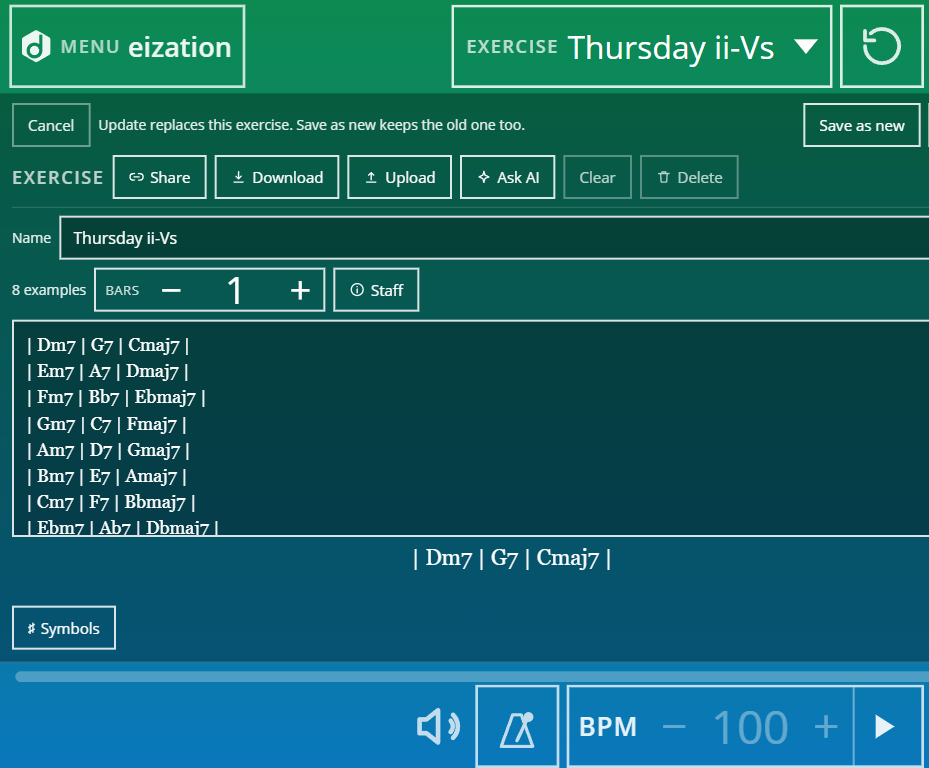
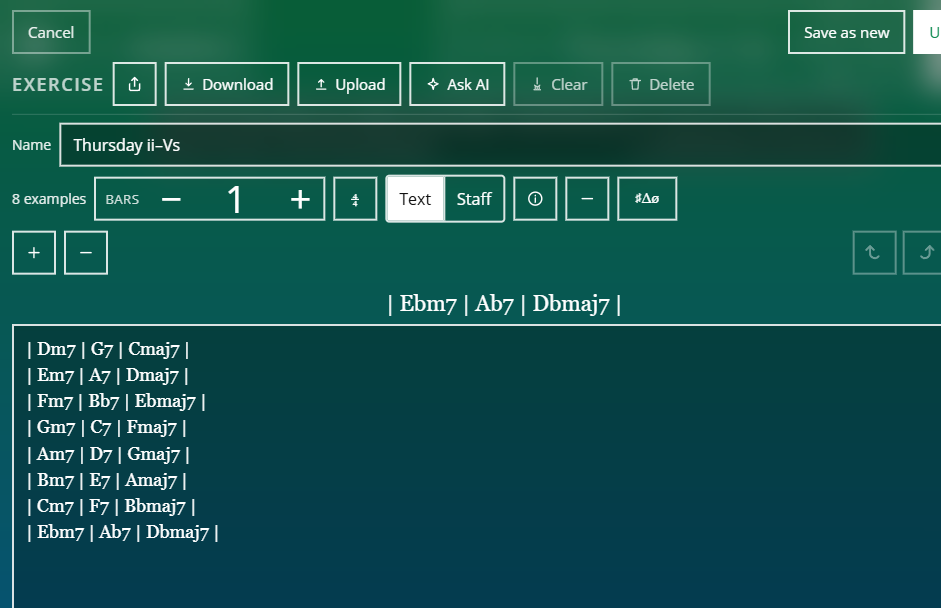
articles and how to update

diff --git a/resources/js/i18n.js b/resources/js/i18n.js
@@ -449,7 +449,7 @@ var I18N = {
     "practice.lessonTitle": "From a lesson you watched",
     "practice.lesson": "Pause after each example. Put that example on its own line. Practice the exercise with the metronome before you watch the next lesson.",
     "practice.ownTitle": "Your own exercise",
-    "practice.own": "Edit changes any exercise on this device. Update and Save as new keep exercises on this device. Share copies a link. Download and Upload copy the open exercise to an .eiz file and back.",
+    "practice.own": "Edit changes any exercise on this device. Choose Text or Staff for the whole exercise. Meter (⋯) sets clef, key, and recommended meter. Staff beside Bars opens a short writing guide. Update and Save as new keep exercises on this device. Share copies a link. Embed copies an iframe for a lesson page. Download and Upload copy the open exercise to an .eiz file and back.",
     "practice.listTitle": "Exercises",
     "practice.onStaff": "On a staff",
     "practice.asText": "As text",
@@ -459,7 +459,7 @@ var I18N = {
     "practice.more": "Extra exercises for common student problems. They are not in the default menu. Open one in eization: Add or Edit keeps it on this device.",
     "practice.moreOpen": "More exercises",
     "practice.staffTitle": "Written on a staff",
-    "practice.staff": "Scales, Left Hand Rootless Voicings, Essential Progressions, Play/Rest, and Rhythms are written on a staff. All Notes, All Chords, Chord Tones, Rhythmic Devices, Motivic Development, and Free Play are text. The line in Edit is the music on screen.",
+    "practice.staff": "Scales, Left Hand Rootless Voicings, Essential Progressions, Play/Rest, and Rhythms are written on a staff. All Notes, All Chords, Chord Tones, Rhythmic Devices, Motivic Development, and Free Play are text. More exercises also has staff lists—Dynamics, Key Signatures, Tuplets, Held rhythm, and others. The line in Edit is the music on screen.",
     "practice.staffOpen": "How to write on the staff",
     "practice.teachersTitle": "For teachers",
     "practice.teachers": "Stories, lesson plans, and honest tool talk for the studio. Prepare lessons for yourself or your students. Share across devices. One example at a time, with the metronome.",
@@ -921,7 +921,7 @@ var I18N = {
     "practice.lessonTitle": "Desde una lección que viste",
     "practice.lesson": "Pausa después de cada ejemplo. Pon ese ejemplo en su propia línea. Practica el ejercicio con el metrónomo antes de ver la lección siguiente.",
     "practice.ownTitle": "Tu propio ejercicio",
-    "practice.own": "Editar cambia cualquier ejercicio en este dispositivo. Actualizar y Guardar como nuevo dejan los ejercicios en este dispositivo. Compartir copia un enlace. Descargar y Cargar copian el ejercicio abierto a un archivo .eiz y de vuelta.",
+    "practice.own": "Editar cambia cualquier ejercicio en este dispositivo. Elige Texto o Pentagrama para todo el ejercicio. Metro (⋯) fija la clave, la tonalidad y el compás recomendado. Pentagrama junto a Compases abre una guía corta. Actualizar y Guardar como nuevo dejan los ejercicios en este dispositivo. Compartir copia un enlace. Insertar copia un iframe para una página de clase. Descargar y Cargar copian el ejercicio abierto a un archivo .eiz y de vuelta.",
     "practice.listTitle": "Ejercicios",
     "practice.onStaff": "En el pentagrama",
     "practice.asText": "En texto",
@@ -931,7 +931,7 @@ var I18N = {
     "practice.more": "Ejercicios extra para problemas habituales de estudiantes. No están en el menú por defecto. Abre uno en eization: Añadir o Editar lo deja en este dispositivo.",
     "practice.moreOpen": "Más ejercicios",
     "practice.staffTitle": "Escrito en el pentagrama",
-    "practice.staff": "Escalas, Voicings rootless de mano izquierda, Progresiones esenciales, Tocar/Silencio y Ritmos se escriben en el pentagrama. Todas las notas, Todos los acordes, Notas del acorde, Recursos rítmicos, Desarrollo motívico y Juego libre son texto. La línea en Editar es la música en pantalla.",
+    "practice.staff": "Escalas, Voicings rootless de mano izquierda, Progresiones esenciales, Tocar/Silencio y Ritmos se escriben en el pentagrama. Todas las notas, Todos los acordes, Notas del acorde, Recursos rítmicos, Desarrollo motívico y Juego libre son texto. Más ejercicios también tiene listas en pentagrama—Matices, Armaduras, Grupos irregulares, Ritmo sostenido y otros. La línea en Editar es la música en pantalla.",
     "practice.staffOpen": "Cómo escribir en el pentagrama",
     "practice.teachersTitle": "Para profesores",
     "practice.teachers": "Historias, planes de clase y comparación honesta de herramientas para el estudio. Prepara lecciones para ti o para tus alumnos. Comparte entre dispositivos. Un ejemplo cada vez, con el metrónomo.",

diff --git a/es/notation.html b/es/notation.html
@@ -74,7 +74,8 @@
         </section>
 
         <h2>Una nota, y luego las duraciones</h2>
-        <p>Letra y octava. Cada nota es su propia palabra: <code>C4 E4</code> son dos notas; <code>C4E4</code> no. <code>C4</code> es el do central, una negra. Después de la octava: <code>w</code> redonda, <code>h</code> blanca, <code>q</code> negra, <code>e</code> corchea, <code>s</code> semicorchea, <code>n</code> una cabeza de negra sin plica (un tiempo, <code>C4n</code>). El puntillo va después de la duración: <code>q.</code> <code>w.</code>. <code>n.</code> no se lee. Alteraciones: <code>C#4</code>, <code>Db4</code>, <code>Cn4</code>, <code>Cx4</code> o <code>C##4</code>, <code>Ebb4</code>. Símbolos en Editar (cerrado hasta que lo abras) inserta ♯ ♭ ♮ y los demás caracteres musicales; se leen igual.</p>
+        <p>Letra y octava. Cada nota es su propia palabra: <code>C4 E4</code> son dos notas; <code>C4E4</code> no. <code>C4</code> es el do central, una negra. Después de la octava: <code>w</code> redonda, <code>h</code> blanca, <code>q</code> negra, <code>e</code> corchea, <code>s</code> semicorchea, <code>n</code> una cabeza de negra sin plica (un tiempo, <code>C4n</code>). El puntillo va después de la duración: <code>q.</code> <code>w.</code>. <code>n.</code> no se lee. Alteraciones: <code>C#4</code>, <code>Db4</code>, <code>Cn4</code>, <code>Cx4</code> o <code>C##4</code>, <code>Ebb4</code>.</p>
+        <p>Símbolos en Editar permanece cerrado hasta que lo abras. En un ejercicio de pentagrama es un teclado de letras: toca una letra para escribir la nota, luego la duración, el puntillo, la octava, las alteraciones, slash o silencio, barra, grupo irregular, acorde, deshacer y borrar. En un ejercicio de texto inserta ♯ ♭ ♮ y los demás signos de cifrado. Lo escrito a mano se lee igual.</p>
         <figure class="notation-sample">
             <pre>C4</pre>
             <div class="notation-staff"></div>
@@ -86,12 +87,22 @@
 
         <h2>Clave y armadura</h2>
         <p><code>@treble</code> o <code>@bass</code>, y <code>@key=</code>, en cualquier orden. Por defecto es clave de sol, tonalidad de do. <code>@key=Eb</code> es mi bemol mayor. <code>@key=Am</code> imprime la armadura del relativo mayor (do). Un <code>!</code> después de la octava imprime la alteración aunque la armadura ya la tenga (<code>F#4!</code>).</p>
+        <p>En Editar, Metro (⋯) fija la clave, la tonalidad y el compás recomendado de todo el ejercicio. <code>@bass</code> / <code>@treble</code> / <code>@key=</code> en la línea siguen mandando. El compás no se escribe en la línea; un metro recomendado puede actualizar Ajustes al abrir el ejercicio. Pentagrama junto a Compases abre una guía corta; toca un ejemplo para insertar esa línea.</p>
         <figure class="notation-sample">
             <pre>@key=Eb Eb4 F4 G4 Ab4 Bb4</pre>
             <div class="notation-staff"></div>
         </figure>
         <figure class="notation-sample">
             <pre>@bass @key=F C3 E3 F3 A3</pre>
+            <div class="notation-staff"></div>
+        </figure>
+        <p>Solo clave y armadura siguen dibujando un pentagrama vacío. Un cifrado sin nota después es un acorde de línea sobre ese pentagrama vacío.</p>
+        <figure class="notation-sample">
+            <pre>@bass @key=D</pre>
+            <div class="notation-staff"></div>
+        </figure>
+        <figure class="notation-sample">
+            <pre>@key=G ^G_Major</pre>
             <div class="notation-staff"></div>
         </figure>
 
@@ -103,9 +114,13 @@
         </figure>
 
         <h2>Un acorde</h2>
-        <p>Los corchetes apilan un acorde. La misma duración en cada nota es la forma clara de escribirlo. <code>^</code> después del corchete de cierre es el cifrado sobre el acorde. <code>_</code> es el texto debajo. Un acorde puede llevar los dos. El cifrado puede usar ∆. <code>^bVII</code> y <code>_bVII</code> se ven como ♭VII. <code>_bbVII</code> se ve como 𝄫VII.</p>
+        <p>Los corchetes apilan un acorde. La misma duración en cada nota es la forma clara de escribirlo. <code>^</code> después del corchete de cierre es el cifrado sobre el acorde. <code>_</code> es el texto debajo. Un acorde puede llevar los dos. El cifrado puede usar ∆. <code>^bVII</code> y <code>_bVII</code> se ven como ♭VII. <code>_bbVII</code> se ve como 𝄫VII. Dentro de una palabra de cifrado sobre el pentagrama, <code>_</code> es un espacio: <code>^Any_dom_7</code>.</p>
         <figure class="notation-sample">
             <pre>@bass @key=C [E3h G3h B3h D4h]^C∆7_3</pre>
+            <div class="notation-staff"></div>
+        </figure>
+        <figure class="notation-sample">
+            <pre>^Any_dom_7 / / / /</pre>
             <div class="notation-staff"></div>
         </figure>
 

diff --git a/notation.html b/notation.html
@@ -74,7 +74,8 @@
         </section>
 
         <h2>One pitch, then the durations</h2>
-        <p>Letter, octave. Each note is its own word: <code>C4 E4</code> is two notes; <code>C4E4</code> is not. <code>C4</code> is middle C, a quarter note. After the octave: <code>w</code> whole, <code>h</code> half, <code>q</code> quarter, <code>e</code> eighth, <code>s</code> sixteenth, <code>n</code> a filled notehead with no stem (one beat, <code>C4n</code>). A dot follows the duration: <code>q.</code> <code>w.</code>. <code>n.</code> does not parse. Accidentals: <code>C#4</code>, <code>Db4</code>, <code>Cn4</code>, <code>Cx4</code> or <code>C##4</code>, <code>Ebb4</code>. Symbols in Edit (closed until you open it) inserts ♯ ♭ ♮ and the other music characters; they parse the same way.</p>
+        <p>Letter, octave. Each note is its own word: <code>C4 E4</code> is two notes; <code>C4E4</code> is not. <code>C4</code> is middle C, a quarter note. After the octave: <code>w</code> whole, <code>h</code> half, <code>q</code> quarter, <code>e</code> eighth, <code>s</code> sixteenth, <code>n</code> a filled notehead with no stem (one beat, <code>C4n</code>). A dot follows the duration: <code>q.</code> <code>w.</code>. <code>n.</code> does not parse. Accidentals: <code>C#4</code>, <code>Db4</code>, <code>Cn4</code>, <code>Cx4</code> or <code>C##4</code>, <code>Ebb4</code>.</p>
+        <p>Symbols in Edit stays closed until you open it. On a staff exercise it is a letter pad: tap a letter to write the note, then duration, a dot, the octave, accidentals, slash or rest, beam, tuplet, stack, undo, and erase. On a text exercise it inserts ♯ ♭ ♮ and the other chart marks. Typed marks parse the same way.</p>
         <figure class="notation-sample">
             <pre>C4</pre>
             <div class="notation-staff"></div>
@@ -86,12 +87,22 @@
 
         <h2>Clef and key</h2>
         <p><code>@treble</code> or <code>@bass</code>, and <code>@key=</code>, in either order. The default is treble, key of C. <code>@key=Eb</code> is E-flat major. <code>@key=Am</code> prints the signature of the relative major (C). A <code>!</code> after the octave prints the accidental even when the key already has it (<code>F#4!</code>).</p>
+        <p>In Edit, Meter (⋯) sets clef, key, and recommended meter for the whole exercise. Line <code>@bass</code> / <code>@treble</code> / <code>@key=</code> still override. The time signature is not typed in the line; a recommended meter can update Setup when you open the exercise. Staff beside Bars opens a short writing guide; tap a sample to insert that line.</p>
         <figure class="notation-sample">
             <pre>@key=Eb Eb4 F4 G4 Ab4 Bb4</pre>
             <div class="notation-staff"></div>
         </figure>
         <figure class="notation-sample">
             <pre>@bass @key=F C3 E3 F3 A3</pre>
+            <div class="notation-staff"></div>
+        </figure>
+        <p>Clef and key alone still draw an empty staff. A chord name with no note after it is a line chord on that empty staff.</p>
+        <figure class="notation-sample">
+            <pre>@bass @key=D</pre>
+            <div class="notation-staff"></div>
+        </figure>
+        <figure class="notation-sample">
+            <pre>@key=G ^G_Major</pre>
             <div class="notation-staff"></div>
         </figure>
 
@@ -103,9 +114,13 @@
         </figure>
 
         <h2>A chord</h2>
-        <p>Brackets stack a chord. The same duration on every pitch is the clear way to write it. <code>^</code> after the closing bracket is the chord name above the stack. <code>_</code> is text under it. A chord can carry both. The name can use ∆. <code>^bVII</code> and <code>_bVII</code> both print as ♭VII. <code>_bbVII</code> prints as 𝄫VII.</p>
+        <p>Brackets stack a chord. The same duration on every pitch is the clear way to write it. <code>^</code> after the closing bracket is the chord name above the stack. <code>_</code> is text under it. A chord can carry both. The name can use ∆. <code>^bVII</code> and <code>_bVII</code> both print as ♭VII. <code>_bbVII</code> prints as 𝄫VII. Inside a chord word above the staff, <code>_</code> is a space: <code>^Any_dom_7</code>.</p>
         <figure class="notation-sample">
             <pre>@bass @key=C [E3h G3h B3h D4h]^C∆7_3</pre>
+            <div class="notation-staff"></div>
+        </figure>
+        <figure class="notation-sample">
+            <pre>^Any_dom_7 / / / /</pre>
             <div class="notation-staff"></div>
         </figure>
 

diff --git a/practice.html b/practice.html
@@ -119,7 +119,8 @@
         <p data-i18n="practice.lesson">Pause after each example. Put that example on its own line. Practice the exercise with the metronome before you watch the next lesson.</p>
 
         <h2 data-i18n="practice.ownTitle">Your own exercise</h2>
-        <p data-i18n="practice.own">Edit changes any exercise on this device. Update and Save as new keep exercises on this device. Share copies a link. Download and Upload copy the open exercise to an .eiz file and back.</p>
+        <p data-i18n="practice.own">Edit changes any exercise on this device. Choose Text or Staff for the whole exercise. Meter (⋯) sets clef, key, and recommended meter. Staff beside Bars opens a short writing guide. Update and Save as new keep exercises on this device. Share copies a link. Embed copies an iframe for a lesson page. Download and Upload copy the open exercise to an .eiz file and back.</p>
+        <p>For a live practice frame under lesson copy, see <a href="./for-teachers/lesson-on-the-page.html">The Lesson Page That Starts the Metronome</a>.</p>
 
         <h2 data-i18n="practice.listTitle">Exercises</h2>
         <h3 data-i18n="practice.onStaff">On a staff</h3>
@@ -145,8 +146,9 @@
         <p><a class="open" href="./more.html" data-i18n="practice.moreOpen">More exercises</a></p>
 
         <h2 data-i18n="practice.staffTitle">Written on a staff</h2>
-        <p data-i18n="practice.staff">Scales, Left Hand Rootless Voicings, Essential Progressions, Play/Rest, and Rhythms are written on a staff. All Notes, All Chords, Chord Tones, Rhythmic Devices, Motivic Development, and Free Play are text. The line in Edit is the music on screen.</p>
+        <p data-i18n="practice.staff">Scales, Left Hand Rootless Voicings, Essential Progressions, Play/Rest, and Rhythms are written on a staff. All Notes, All Chords, Chord Tones, Rhythmic Devices, Motivic Development, and Free Play are text. More exercises also has staff lists—Dynamics, Key Signatures, Tuplets, Held rhythm, and others. The line in Edit is the music on screen.</p>
         <p><a class="open" href="./notation.html" data-i18n="practice.staffOpen">How to write on the staff</a></p>
+        <p><a href="./more.html" data-i18n="practice.moreOpen">More exercises</a></p>
 
         <h2 data-i18n="practice.teachersTitle">For teachers</h2>
         <p data-i18n="practice.teachers">Stories, lesson plans, and honest tool talk for the studio. Prepare lessons for yourself or your students. Share across devices. One example at a time, with the metronome.</p>
@@ -167,7 +169,7 @@
         <p data-i18n="practice.aAgain">Each example in the exercise comes up once. Then the order changes.</p>
 
         <h2 data-i18n="practice.qKeep">Can I keep my own exercise?</h2>
-        <p data-i18n="practice.own">Edit changes any exercise on this device. Update and Save as new keep exercises on this device. Share copies a link. Download and Upload copy the open exercise to an .eiz file and back.</p>
+        <p data-i18n="practice.own">Edit changes any exercise on this device. Choose Text or Staff for the whole exercise. Meter (⋯) sets clef, key, and recommended meter. Staff beside Bars opens a short writing guide. Update and Save as new keep exercises on this device. Share copies a link. Embed copies an iframe for a lesson page. Download and Upload copy the open exercise to an .eiz file and back.</p>
     </main>
     <script src="./resources/js/lang-link.js"></script>
 </body>

diff --git a/es/practice.html b/es/practice.html
@@ -121,7 +121,8 @@
         <p>Pausa después de cada ejemplo. Pon ese ejemplo en su propia línea. Practica el ejercicio con el metrónomo antes de ver la lección siguiente.</p>
 
         <h2>Tu propio ejercicio</h2>
-        <p>Editar cambia cualquier ejercicio en este dispositivo. Actualizar y Guardar como nuevo dejan los ejercicios en este dispositivo. Compartir copia un enlace. Descargar y Cargar copian el ejercicio abierto a un archivo .eiz y de vuelta.</p>
+        <p>Editar cambia cualquier ejercicio en este dispositivo. Elige Texto o Pentagrama para todo el ejercicio. Metro (⋯) fija la clave, la tonalidad y el compás recomendado. Pentagrama junto a Compases abre una guía corta. Actualizar y Guardar como nuevo dejan los ejercicios en este dispositivo. Compartir copia un enlace. Insertar copia un iframe para una página de clase. Descargar y Cargar copian el ejercicio abierto a un archivo .eiz y de vuelta.</p>
+        <p>Para un marco de práctica en vivo bajo el texto de la lección, mira <a href="./for-teachers/lesson-on-the-page.html">La página de clase que arranca el metrónomo</a>.</p>
 
         <h2>Ejercicios</h2>
         <h3>En el pentagrama</h3>
@@ -147,8 +148,9 @@
         <p><a class="open" href="./more.html">Más ejercicios</a></p>
 
         <h2>Escrito en el pentagrama</h2>
-        <p>Escalas, Voicings rootless de mano izquierda, Progresiones esenciales, Tocar/Silencio y Ritmos se escriben en el pentagrama. Todas las notas, Todos los acordes, Notas del acorde, Recursos rítmicos, Desarrollo motívico y Juego libre son texto. La línea en Editar es la música en pantalla.</p>
+        <p>Escalas, Voicings rootless de mano izquierda, Progresiones esenciales, Tocar/Silencio y Ritmos se escriben en el pentagrama. Todas las notas, Todos los acordes, Notas del acorde, Recursos rítmicos, Desarrollo motívico y Juego libre son texto. Más ejercicios también tiene listas en pentagrama—Matices, Armaduras, Grupos irregulares, Ritmo sostenido y otros. La línea en Editar es la música en pantalla.</p>
         <p><a class="open" href="./notation.html">Cómo escribir en el pentagrama</a></p>
+        <p><a href="./more.html">Más ejercicios</a></p>
 
         <h2>Para profesores</h2>
         <p>Historias, planes de clase y comparación honesta de herramientas para el estudio. Prepara lecciones para ti o para tus alumnos. Comparte entre dispositivos. Un ejemplo cada vez, con el metrónomo.</p>
@@ -169,7 +171,7 @@
         <p>Cada ejemplo del ejercicio sale una vez. Luego cambia el orden.</p>
 
         <h2>¿Puedo quedarme con mi propio ejercicio?</h2>
-        <p>Editar cambia cualquier ejercicio en este dispositivo. Actualizar y Guardar como nuevo dejan los ejercicios en este dispositivo. Compartir copia un enlace. Descargar y Cargar copian el ejercicio abierto a un archivo .eiz y de vuelta.</p>
+        <p>Editar cambia cualquier ejercicio en este dispositivo. Elige Texto o Pentagrama para todo el ejercicio. Metro (⋯) fija la clave, la tonalidad y el compás recomendado. Pentagrama junto a Compases abre una guía corta. Actualizar y Guardar como nuevo dejan los ejercicios en este dispositivo. Compartir copia un enlace. Insertar copia un iframe para una página de clase. Descargar y Cargar copian el ejercicio abierto a un archivo .eiz y de vuelta.</p>
     </main>
     <script src="../resources/js/lang-link.js"></script>
 </body>

diff --git a/es/for-teachers/homework-share.html b/es/for-teachers/homework-share.html
@@ -112,16 +112,16 @@
             <p>Abre <a href="../">eization</a> en la tablet que ya usas en la clase. Editar. Ponle un nombre que el estudiante pueda encontrar («ii–V del jueves», no «cosas»). Escribe un ejemplo por línea. De ocho a doce líneas ganan a cincuenta de optimismo. Ajusta Barras a la longitud de cada ejemplo.</p>
             <p>Las líneas pueden venir de un libro que ya tienen—escribe solo lo que circuleaste esta semana. Mira <a href="../books.html">Libros que ya tienes</a>. O parte de un ejercicio de stock y Guardar como nuevo. O abre algo listo en <a href="../more.html">más ejercicios</a> y recórtalo.</p>
             <figure class="figure">
-                <img src="../../resources/images/for-teachers/share-01-edit.png" width="1024" height="768" alt="Editar en eization en tablet: ejercicio con ocho ejemplos de ii–V, uno por línea">
-                <figcaption>Profesor (tablet): Editar con una lista corta—un ejemplo por línea.</figcaption>
+                <img src="../../resources/images/for-teachers/share-01-edit.png" width="1024" height="768" alt="Editar en eization en tablet: Thursday ii–Vs en modo Texto, ocho ejemplos de ii–V uno por línea, Compases y Metro junto a Texto/Pentagrama">
+                <figcaption>Profesor (tablet): Editar con una lista corta—un ejemplo por línea. Texto o Pentagrama, Compases y Metro van encima del recuadro.</figcaption>
             </figure>
             <p>Cuando la lista es honesta, Guardar como nuevo (o Actualizar si querías reemplazar). El ejercicio ya vive en ese dispositivo. El siguiente paso es llevarlo al suyo.</p>
 
             <h2>Compartir copia un enlace—no un discurso</h2>
             <p>Todavía en Editar, toca Compartir en la fila Ejercicio. eization copia un enlace a ese ejercicio y muestra Enlace copiado en Editar cuando el portapapeles está listo. Pégalo en el canal que ya usas: mensaje, correo, chat del estudio. Pon el BPM inicial en el mismo mensaje. No confíes en que la memoria cargue el tempo por el pasillo.</p>
             <figure class="figure">
-                <img src="../../resources/images/for-teachers/share-02-share.png" width="1024" height="768" alt="Editar en eization con Compartir en la fila Ejercicio; Descargar, Cargar, Preguntar a la IA y Borrar cerca en una tablet">
-                <figcaption>Profesor (tablet): Compartir está en la fila Ejercicio. En pantalla ancha, Descargar y Cargar van a su lado; en el teléfono están bajo Más.</figcaption>
+                <img src="../../resources/images/for-teachers/share-02-share.png" width="1024" height="768" alt="Editar en eization con Enlace copiado bajo el nombre; Compartir, Descargar, Cargar, Preguntar a la IA, Vaciar y Borrar en la fila Ejercicio">
+                <figcaption>Profesor (tablet): Compartir está en la fila Ejercicio. Enlace copiado aparece en Editar. En pantalla ancha, Descargar y Cargar van junto a Compartir; en el teléfono están bajo Más.</figcaption>
             </figure>
             <p>El enlace es la tarea. No necesitan cuenta. No necesitan reconstruir tu letra desde la foto de una servilleta.</p>
 

diff --git a/for-teachers/homework-share.html b/for-teachers/homework-share.html
@@ -112,16 +112,16 @@
             <p>Open <a href="../">eization</a> on the tablet you already use in the lesson. Edit. Name the exercise something a student can find later (“Thursday ii–Vs,” not “stuff”). Type one example per line. Eight to twelve lines beat fifty lines of optimism. Set Bars to the length of each example.</p>
             <p>Lines can come from a book they already own—type only what you circled this week. See <a href="../books.html">Books you own</a>. Or start from a stock exercise and Save as new. Or open something ready-made from <a href="../more.html">more exercises</a> and trim it.</p>
             <figure class="figure">
-                <img src="../resources/images/for-teachers/share-01-edit.png" width="1024" height="768" alt="eization Edit on a tablet: exercise named Thursday ii–Vs with eight ii–V examples, one per line">
-                <figcaption>Teacher (tablet): Edit with a short list—one example per line.</figcaption>
+                <img src="../resources/images/for-teachers/share-01-edit.png" width="1024" height="768" alt="eization Edit on a tablet: Thursday ii–Vs, Text mode, eight ii–V examples one per line, Bars and Meter beside Text/Staff">
+                <figcaption>Teacher (tablet): Edit with a short list—one example per line. Text or Staff, Bars, and Meter sit above the box.</figcaption>
             </figure>
             <p>When the list is honest, Save as new (or Update if you meant to replace). The exercise now lives on that device. The next step is getting it onto theirs.</p>
 
             <h2>Share copies a link—not a lecture</h2>
             <p>Still in Edit, tap Share on the Exercise row. eization copies a link to that exercise and shows Link copied in Edit when the clipboard is ready. Paste it into whatever channel you already use: message, email, studio chat. Put the starting BPM in the same message. Do not rely on memory to carry tempo across the hallway.</p>
             <figure class="figure">
-                <img src="../resources/images/for-teachers/share-02-share.png" width="1024" height="768" alt="eization Edit with Share on the Exercise row; Download, Upload, Ask AI, and Delete nearby on a tablet">
-                <figcaption>Teacher (tablet): Share is on the Exercise row. On a wide screen, Download and Upload sit beside it; on a phone they are under More.</figcaption>
+                <img src="../resources/images/for-teachers/share-02-share.png" width="1024" height="768" alt="eization Edit with Link copied under the name; Share, Download, Upload, Ask AI, Clear, and Delete on the Exercise row">
+                <figcaption>Teacher (tablet): Share is on the Exercise row. Link copied appears in Edit. On a wide screen, Download and Upload sit beside Share; on a phone they are under More.</figcaption>
             </figure>
             <p>The link is the homework. They do not need an account. They do not need to recreate your handwriting from a photo of a napkin.</p>
 

diff --git a/es/for-teachers/scales-on-the-staff.html b/es/for-teachers/scales-on-the-staff.html
@@ -108,7 +108,7 @@
             <p class="pull">Doce tonalidades en una línea es un párrafo. Doce líneas es un ejercicio.</p>
 
             <h2>Escribe una línea que se pueda ver</h2>
-            <p>Abre Editar. Ponle al ejercicio el nombre de la semana (“Dórico, tres tonalidades”, no “escalas”). Cada línea es una escala, un compás de corcheas en 4/4, así que Compases va en 1. Pentagrama, junto a Compases, abre una guía corta sin cambiar tus líneas. La vista previa encima del recuadro dibuja la línea del cursor. El conjunto está en <a href="../notation.html">Cómo escribir en el pentagrama</a>.</p>
+            <p>Abre Editar. Ponle al ejercicio el nombre de la semana (“Dórico, tres tonalidades”, no “escalas”). Cada línea es una escala, un compás de corcheas en 4/4, así que Compases va en 1. Metro (⋯) puede fijar clave y tonalidad de todo el ejercicio; <code>@key=</code> en la línea sigue mandando. Pentagrama, junto a Compases, abre una guía corta sin cambiar tus líneas. La vista previa encima del recuadro dibuja la línea del cursor. El conjunto está en <a href="../notation.html">Cómo escribir en el pentagrama</a>.</p>
             <ul class="recipe">
                 <li><code>@key=</code> va primero (la clave de sol es el valor por defecto). La armadura es la del mayor padre, así que las alteraciones las pone la armadura.</li>
                 <li><code>^Dorian</code> es el nombre sobre el pentagrama. Una palabra. Sin espacios.</li>
@@ -136,7 +136,7 @@
             <p>El ejercicio de fábrica <a href="../?exercise=scales">Escalas</a> es este mismo tipo de línea: los siete modos de la mayor, en las doce tonalidades. La menor armónica, la menor melódica, la pentatónica, el blues y el bebop están en <a href="../more.html">Más ejercicios</a>. Guardar como nuevo cuando quieras la lista corta de esta semana.</p>
 
             <h2>Entrégalo el mismo día</h2>
-            <p>Guardar como nuevo. Compartir copia un enlace. Escribe el BPM de salida en el mismo mensaje. En el teléfono, Añadir deja el ejercicio. Play lleva el tiempo de la escala que se ve. Siguiente trae la escala siguiente. Reiniciar vuelve a empezar ese ejercicio.</p>
+            <p>Guardar como nuevo. Compartir copia un enlace. Escribe el BPM de salida en el mismo mensaje. En el teléfono, Añadir o Editar deja el ejercicio. Play lleva el tiempo de la escala que se ve. Siguiente trae la escala siguiente. Reiniciar vuelve a empezar ese ejercicio.</p>
             <p>Si la línea se queda en texto grande, un token está mal. Los fallos habituales son un espacio dentro de <code>^Major</code>, un grado escrito como palabra aparte, o una llave de barrado sin cerrar. Corrige la línea. El pentagrama aparece cuando la línea se lee.</p>
 
             <div class="related">

diff --git a/for-teachers/scales-on-the-staff.html b/for-teachers/scales-on-the-staff.html
@@ -108,7 +108,7 @@
             <p class="pull">Twelve keys on one line is a paragraph. Twelve lines is an exercise.</p>
 
             <h2>Write one line they can see</h2>
-            <p>Open Edit. Name the exercise for the week (“Dorian, three keys,” not “scales”). Each line is one scale, one bar of eighth notes in 4/4, so set Bars to 1. Staff, next to Bars, opens a short writing guide without changing your lines. The preview above the box draws the line at the caret. The full set is on <a href="../notation.html">How to write on the staff</a>.</p>
+            <p>Open Edit. Name the exercise for the week (“Dorian, three keys,” not “scales”). Each line is one scale, one bar of eighth notes in 4/4, so set Bars to 1. Meter (⋯) can set clef and key for the whole exercise; line <code>@key=</code> still overrides. Staff, next to Bars, opens a short writing guide without changing your lines. The preview above the box draws the line at the caret. The full set is on <a href="../notation.html">How to write on the staff</a>.</p>
             <ul class="recipe">
                 <li><code>@key=</code> comes first (treble is the default). The key is the parent major, so the signature does the accidentals.</li>
                 <li><code>^Dorian</code> is the name above the staff. One word. No spaces.</li>
@@ -136,7 +136,7 @@
             <p>The stock <a href="../?exercise=scales">Scales</a> exercise is this same kind of line: the seven major modes, in all twelve keys. Harmonic minor, melodic minor, pentatonic, blues, and bebop are on <a href="../more.html">More exercises</a>. Save as new when you want this week’s shorter list.</p>
 
             <h2>Hand it over the same day</h2>
-            <p>Save as new. Share copies a link. Put the starting BPM in the same message. On their phone they Add the exercise. Play keeps time on the scale that is showing. Next brings the next scale. Reset starts that exercise again.</p>
+            <p>Save as new. Share copies a link. Put the starting BPM in the same message. On their phone they Add or Edit the exercise. Play keeps time on the scale that is showing. Next brings the next scale. Reset starts that exercise again.</p>
             <p>If the line stays large text, a token is wrong. The usual misses are a space inside <code>^Major</code>, a degree written as a separate word, or a beam brace left open. Fix the line. The staff appears when the line parses.</p>
 
             <div class="related">

diff --git a/es/for-teachers/five-lesson-plans.html b/es/for-teachers/five-lesson-plans.html
@@ -132,7 +132,7 @@
             <h2>3. Líneas de ii–V de un libro que ya tienen</h2>
             <p><strong>Meta:</strong> tomar seis líneas cortas del libro de jazz que ya está en el atril—Bergonzi, trabajo de capítulo de Aebersold, Patterns for Jazz, tu propio material—y practicarlas como ejercicio.</p>
             <ul class="recipe">
-                <li><strong>Cómo:</strong> Editar → un ejemplo por línea. No reimprimas el libro en internet; escribe las líneas de esta semana.</li>
+                <li><strong>Cómo:</strong> Editar → Texto o Pentagrama, un ejemplo por línea. Metro (⋯) si el set necesita clave o tonalidad por defecto. No reimprimas el libro en internet; escribe las líneas de esta semana.</li>
                 <li><strong>BPM inicial:</strong> la mitad de «impresionante».</li>
                 <li><strong>Barras:</strong> la longitud de esa línea o progresión.</li>
                 <li><strong>Cuándo Siguiente:</strong> cuando tiempo y notas coincidan un pase completo.</li>
@@ -164,7 +164,7 @@
             <h2>Lista rápida de cinco minutos</h2>
             <ul class="recipe">
                 <li>Un ejemplo por línea.</li>
-                <li>Barras y metro coinciden con el ejemplo.</li>
+                <li>Compases y el metro de Ajustes coinciden con el ejemplo. Metro (⋯) en Editar guarda clave, tonalidad y compás recomendado del ejercicio.</li>
                 <li>Empieza bajo tempo; sube el BPM solo después de la cobertura, no en lugar de ella.</li>
                 <li>Siguiente es una decisión, no un tic nervioso.</li>
                 <li>Manda el enlace antes de que salgan de la sala.</li>

diff --git a/es/for-teachers/practice-on-the-road.html b/es/for-teachers/practice-on-the-road.html
@@ -114,10 +114,8 @@
 
             <h2>Teléfono como atril, clic como testigo</h2>
             <p>Pon el teléfono donde puedas leer un ejemplo sin inclinarte hacia una laptop. Sácalo del ejercicio de tu biblioteca, en texto o en el pentagrama, y baraja a tiempo con el metrónomo. En la ruta eso importa más que en casa: no vas a quemar la hora en la misma rutina, adivinando qué queda, porque el siguiente ejemplo ya está delante.</p>
-            <figure class="figure figure-phone">
-                <img src="../../resources/images/for-teachers/share-04-practice.png" width="390" height="844" alt="Pantalla de práctica en el teléfono con un ejemplo">
-                <figcaption>Un ejemplo en el teléfono—bastante para un hotel o un rincón quieto.</figcaption>
-            </figure>
+            <iframe title="Practica un ejemplo cada vez" src="../?embed=1&amp;exercise=scales" width="100%" height="720" style="max-width:100%;border:0"></iframe>
+            <p>Un ejemplo en pantalla—bastante para un hotel o un rincón quieto. Pulsa Play cuando estés listo; el clic se queda parado hasta entonces.</p>
             <p>Mientras la página de práctica está al frente, eization pide mantener la pantalla encendida: wake lock cuando el dispositivo lo permite, y un fallback silencioso en bucle cuando no (iOS viejo, algunas instalaciones en pantalla de inicio, Modo de bajo consumo). Cambiar de app igual deja dormir al dispositivo. El Modo de bajo consumo todavía puede ganar. Sé honesto contigo—modo avión y batería cargada ganan al pensamiento mágico.</p>
 
             <h2>Colas que caben en doce minutos</h2>

diff --git a/for-teachers/five-lesson-plans.html b/for-teachers/five-lesson-plans.html
@@ -134,7 +134,7 @@
             <h2>3. ii–V lines from a book they already own</h2>
             <p><strong>Goal:</strong> take six short lines from whatever jazz book is already on the stand—Bergonzi, Aebersold chapter work, Patterns for Jazz, your own handout—and practice them as an exercise.</p>
             <ul class="recipe">
-                <li><strong>How:</strong> Edit → one example per line. Do not reprint the book on the internet; type the lines they are working on this week.</li>
+                <li><strong>How:</strong> Edit → Text or Staff, one example per line. Meter (⋯) if the set needs a default clef or key. Do not reprint the book on the internet; type the lines they are working on this week.</li>
                 <li><strong>BPM start:</strong> half of “impressive.”</li>
                 <li><strong>Bars:</strong> length of that line or progression.</li>
                 <li><strong>When to hit Next:</strong> after time and notes agree for one full pass.</li>
@@ -167,7 +167,7 @@
             <h2>A five-minute teacher checklist</h2>
             <ul class="recipe">
                 <li>One example per line.</li>
-                <li>Bars and meter match the example.</li>
+                <li>Bars and Setup meter match the example. Meter (⋯) in Edit holds clef, key, and recommended meter for the exercise.</li>
                 <li>Start under tempo; raise BPM only after coverage, not instead of it.</li>
                 <li>Next is a decision, not a fidget.</li>
                 <li>Send the share link before they leave the room.</li>
